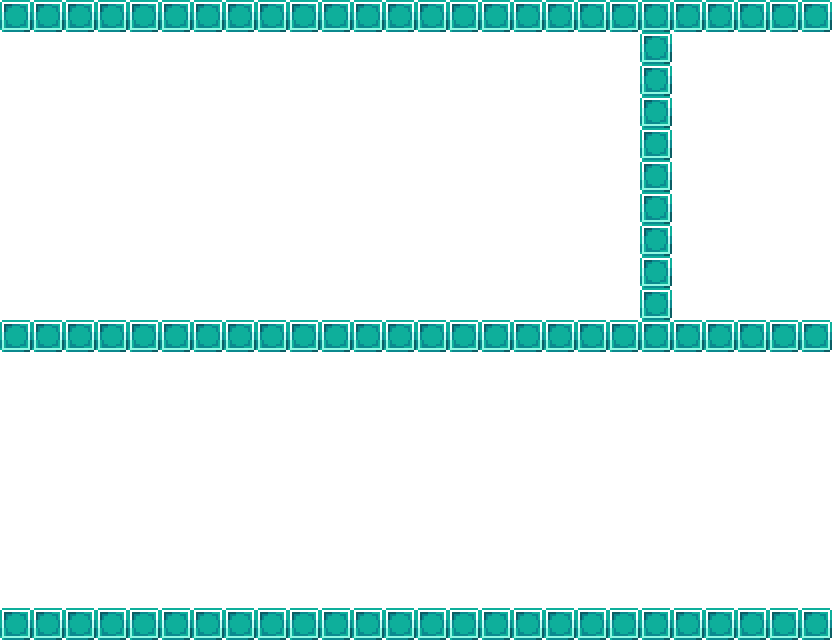
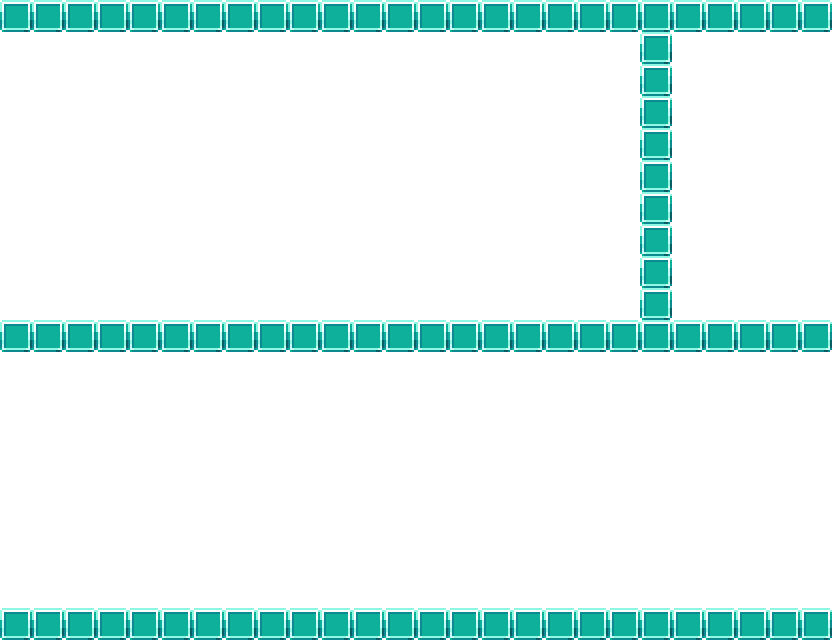
Updated Art
-deleted irrelevant files
-changed the sprites slightly

Changed region(s): [[0.0, 0.0, 1.0, 0.5625], [0.0, 0.9375, 1.0, 1.0]]

diff --git a/games/Phaser-Snake-Game/public/js/snake.js b/games/Phaser-Snake-Game/public/js/snake.js
@@ -6,7 +6,7 @@ var config = {
     physics: {
         default: 'arcade',
         arcade: {
-            gravity: { y: 0 }
+            gravity: { y: 0}
         }
     },
     scene: {
@@ -46,14 +46,14 @@ if (SCREEN_HEIGHT % GRID != 0 || SCREEN_WIDTH % GRID != 0 ) {
 // DEBUG OPTIONS
 
 var DEBUG = true;
-var DEBUG_AREA_ALPHA = 0.2;   // Between 0,1 to make portal areas appear
+var DEBUG_AREA_ALPHA = 0.0;   // Between 0,1 to make portal areas appear
 
 const game = new Phaser.Game(config);
 
 function preload ()
 {
     //this.load.image('sky', 'assets/skies/pixelsky.png');
-    this.load.spritesheet('blocks', 'assets/sprites/tileSheet.png', { frameWidth: GRID, frameHeight: GRID });
+    this.load.spritesheet('blocks', 'assets/Tiled/tileSheet.png', { frameWidth: GRID, frameHeight: GRID });
     this.load.spritesheet('portals', 'assets/sprites/portalBluex32.png', { frameWidth: GRID, frameHeight: GRID });
 
     // Tilemap
